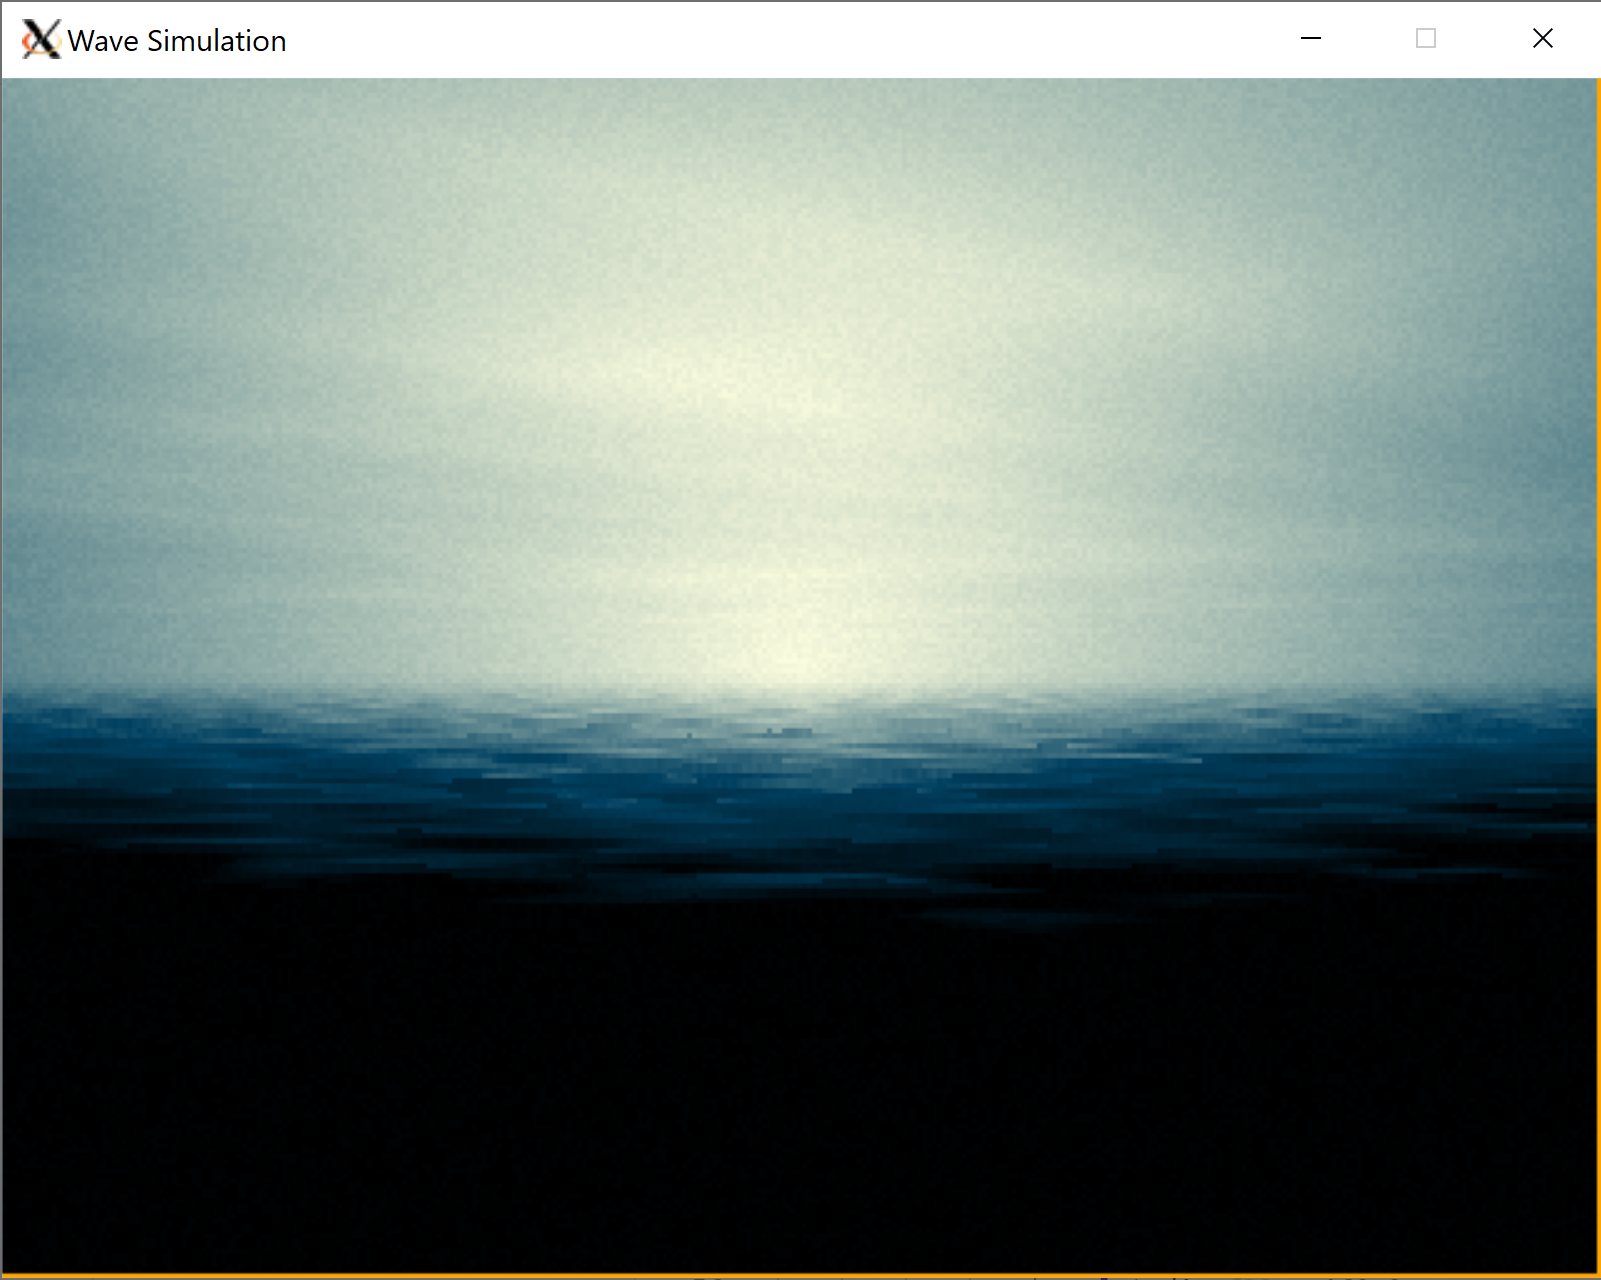
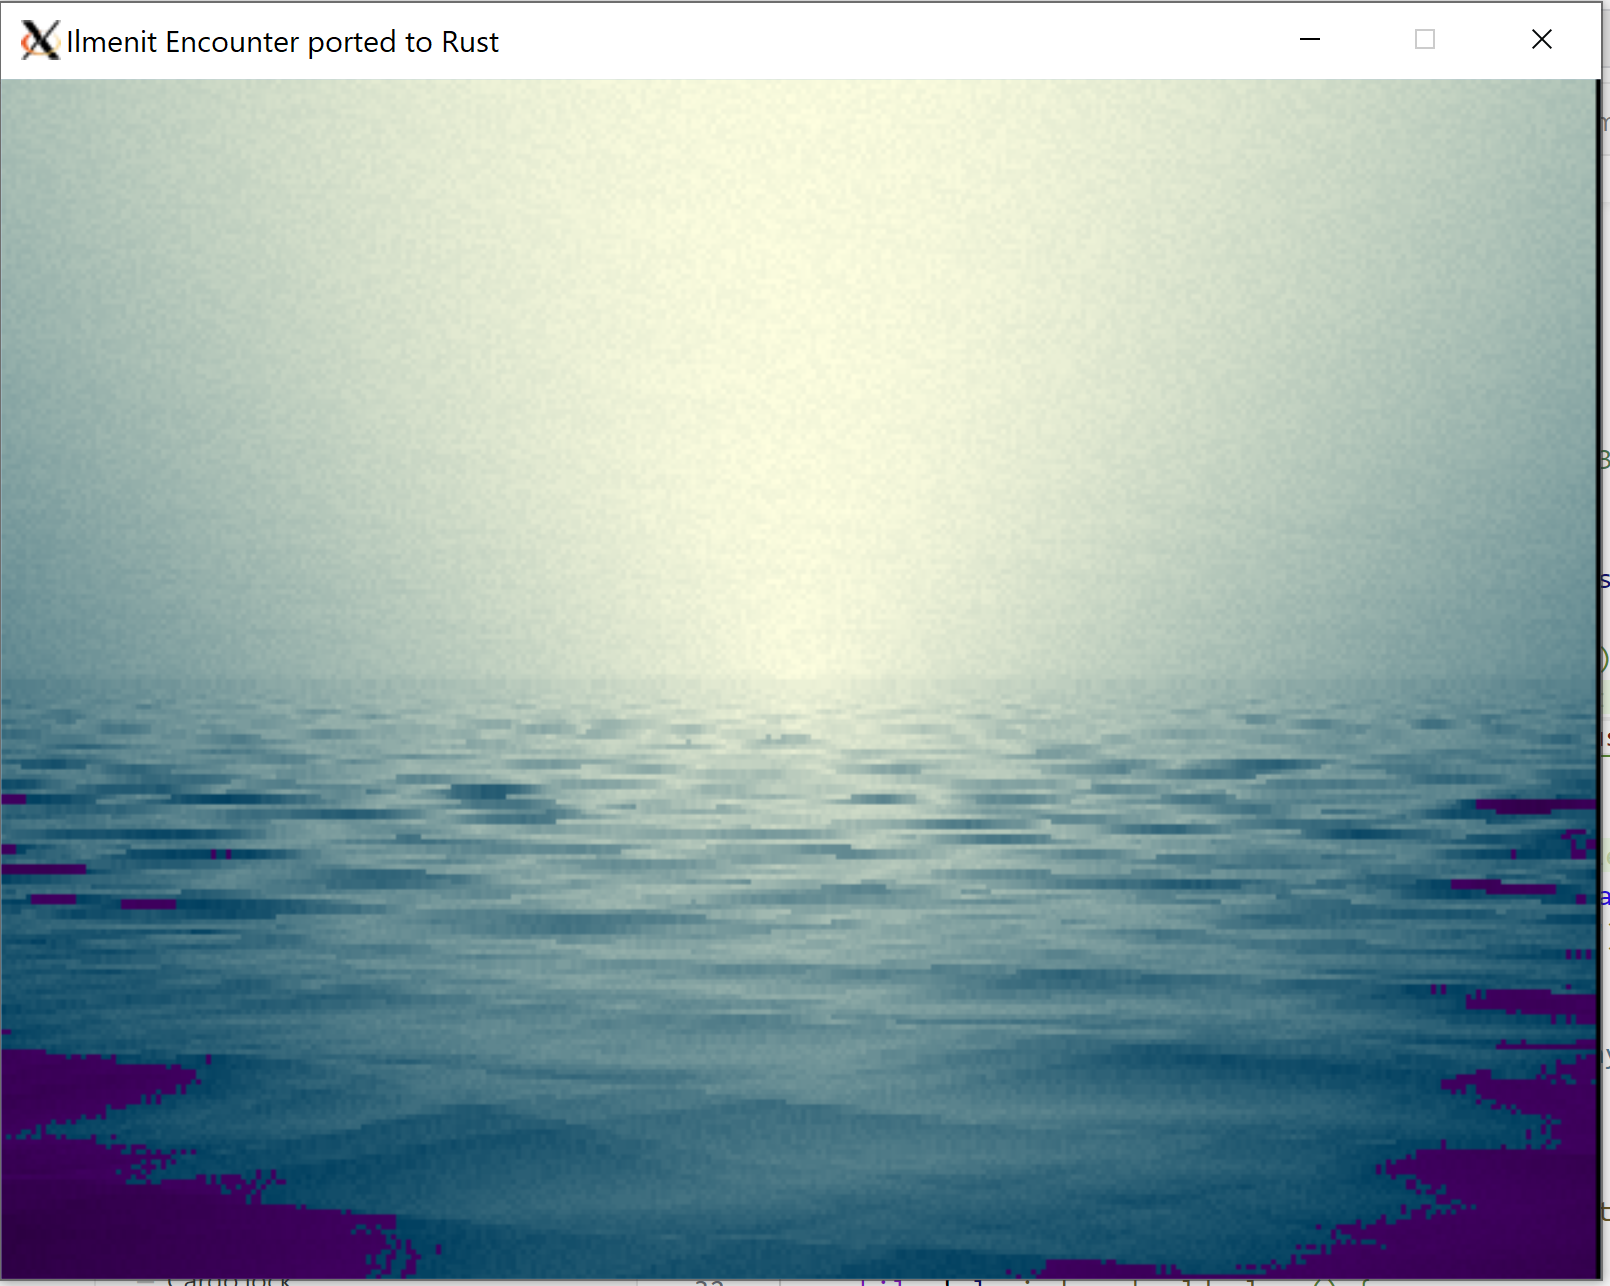
Fixed the colors-too-dark bug

diff --git a/src/main.rs b/src/main.rs
@@ -1,8 +1,7 @@
 extern crate raylib;
-use raylib::ffi::SetTextureFilter;
-use raylib::prelude::*;
-// use std::f32::consts::PI;
+
 use rand::random;
+use raylib::prelude::*;
 
 mod palette_encounter;
 
@@ -10,24 +9,21 @@ use crate::palette_encounter::*;
 
 fn main() {
     let (screen_width, screen_height) = (320, 240);
+    let view_scale = 2;
 
-    let (window_width, window_height) = (screen_width * 2, screen_height * 2);
+    let (window_width, window_height) = (screen_width * view_scale, screen_height * view_scale);
 
     let (mut rl, thread) = raylib::init()
         .size(window_width, window_height)
-        .title("Wave Simulation")
+        .title("Ilmenit Encounter ported to Rust")
         .build();
 
     let mut target = rl
         .load_render_texture(&thread, screen_width as u32, screen_height as u32)
         .expect("Failed to load render texture");
-
-    unsafe {
-        SetTextureFilter(
-            target.texture,
-            raylib::consts::TextureFilter::TEXTURE_FILTER_POINT as i32,
-        );
-    }
+    target
+        .texture()
+        .set_texture_filter(&thread, raylib::consts::TextureFilter::TEXTURE_FILTER_POINT);
 
     rl.set_target_fps(60);
 
@@ -41,11 +37,10 @@ fn main() {
         {
             let mut d = d0.begin_texture_mode(&thread, &mut target);
 
-            d.clear_background(Color::ORANGE);
+            // d.clear_background(Color::ORANGE);
 
             for fx in 0..screen_width {
-                let prev_wave_height = 0.0;
-                let mut prev_fy0 = 0;
+                let mut prev_wave_height = 0.0;
 
                 for fy in 0..screen_height {
                     // define the vanishing point coordinates
@@ -104,10 +99,15 @@ fn main() {
                     // set color with slight film grain effect (also to remove color banding)
                     let final_color = (250.0 * p_color + 6.0 * random::<f32>()) as u8 as usize;
 
-                    let fy0 = (fy + perspective_height as i32).min(239).max(0);
-
-                    d.draw_line(fx, prev_fy0, fx, fy0, palette[final_color]);
-                    prev_fy0 = fy0;
+                    // draw lines also for blob to immitate reflection
+                    d.draw_line(
+                        fx,
+                        fy + perspective_height.ceil() as i32,
+                        fx,
+                        fy + prev_wave_height.floor() as i32,
+                        palette[final_color],
+                    );
+                    prev_wave_height = perspective_height;
                 }
 
                 // set ocean palette with a bit of yellow tint

diff --git a/README.md b/README.md
@@ -1,6 +1,6 @@
-Buggy port of https://github.com/ilmenit/sizecoding/blob/main/Encounter/Encounter.md to Rust.
+Port of https://github.com/ilmenit/sizecoding/blob/main/Encounter/Encounter.md to Rust.
 
-I can't find the *+%!@* bug >:-(
+The palette is precalculated (thanks, ilmenit!!!) because MicroW8 does some pixel shader magic I didn't implement. This is the difference:
 
 These are all images at time = 5sec:
 
@@ -9,9 +9,3 @@ Original
 
 Rust, with calculated palette
 ![alt text](assets/encounter-rust-calculated-palette.png)
-
-Rust, with fixed palette (Thanks, ilmenit!!)
-![alt text](assets/encounter-rust-fixed-palette.png)
-
-The Rust version is very different and I can't find any differences in the code.
-(https://raw.githubusercontent.com/ilmenit/sizecoding/main/Encounter/encounter.cwa)
